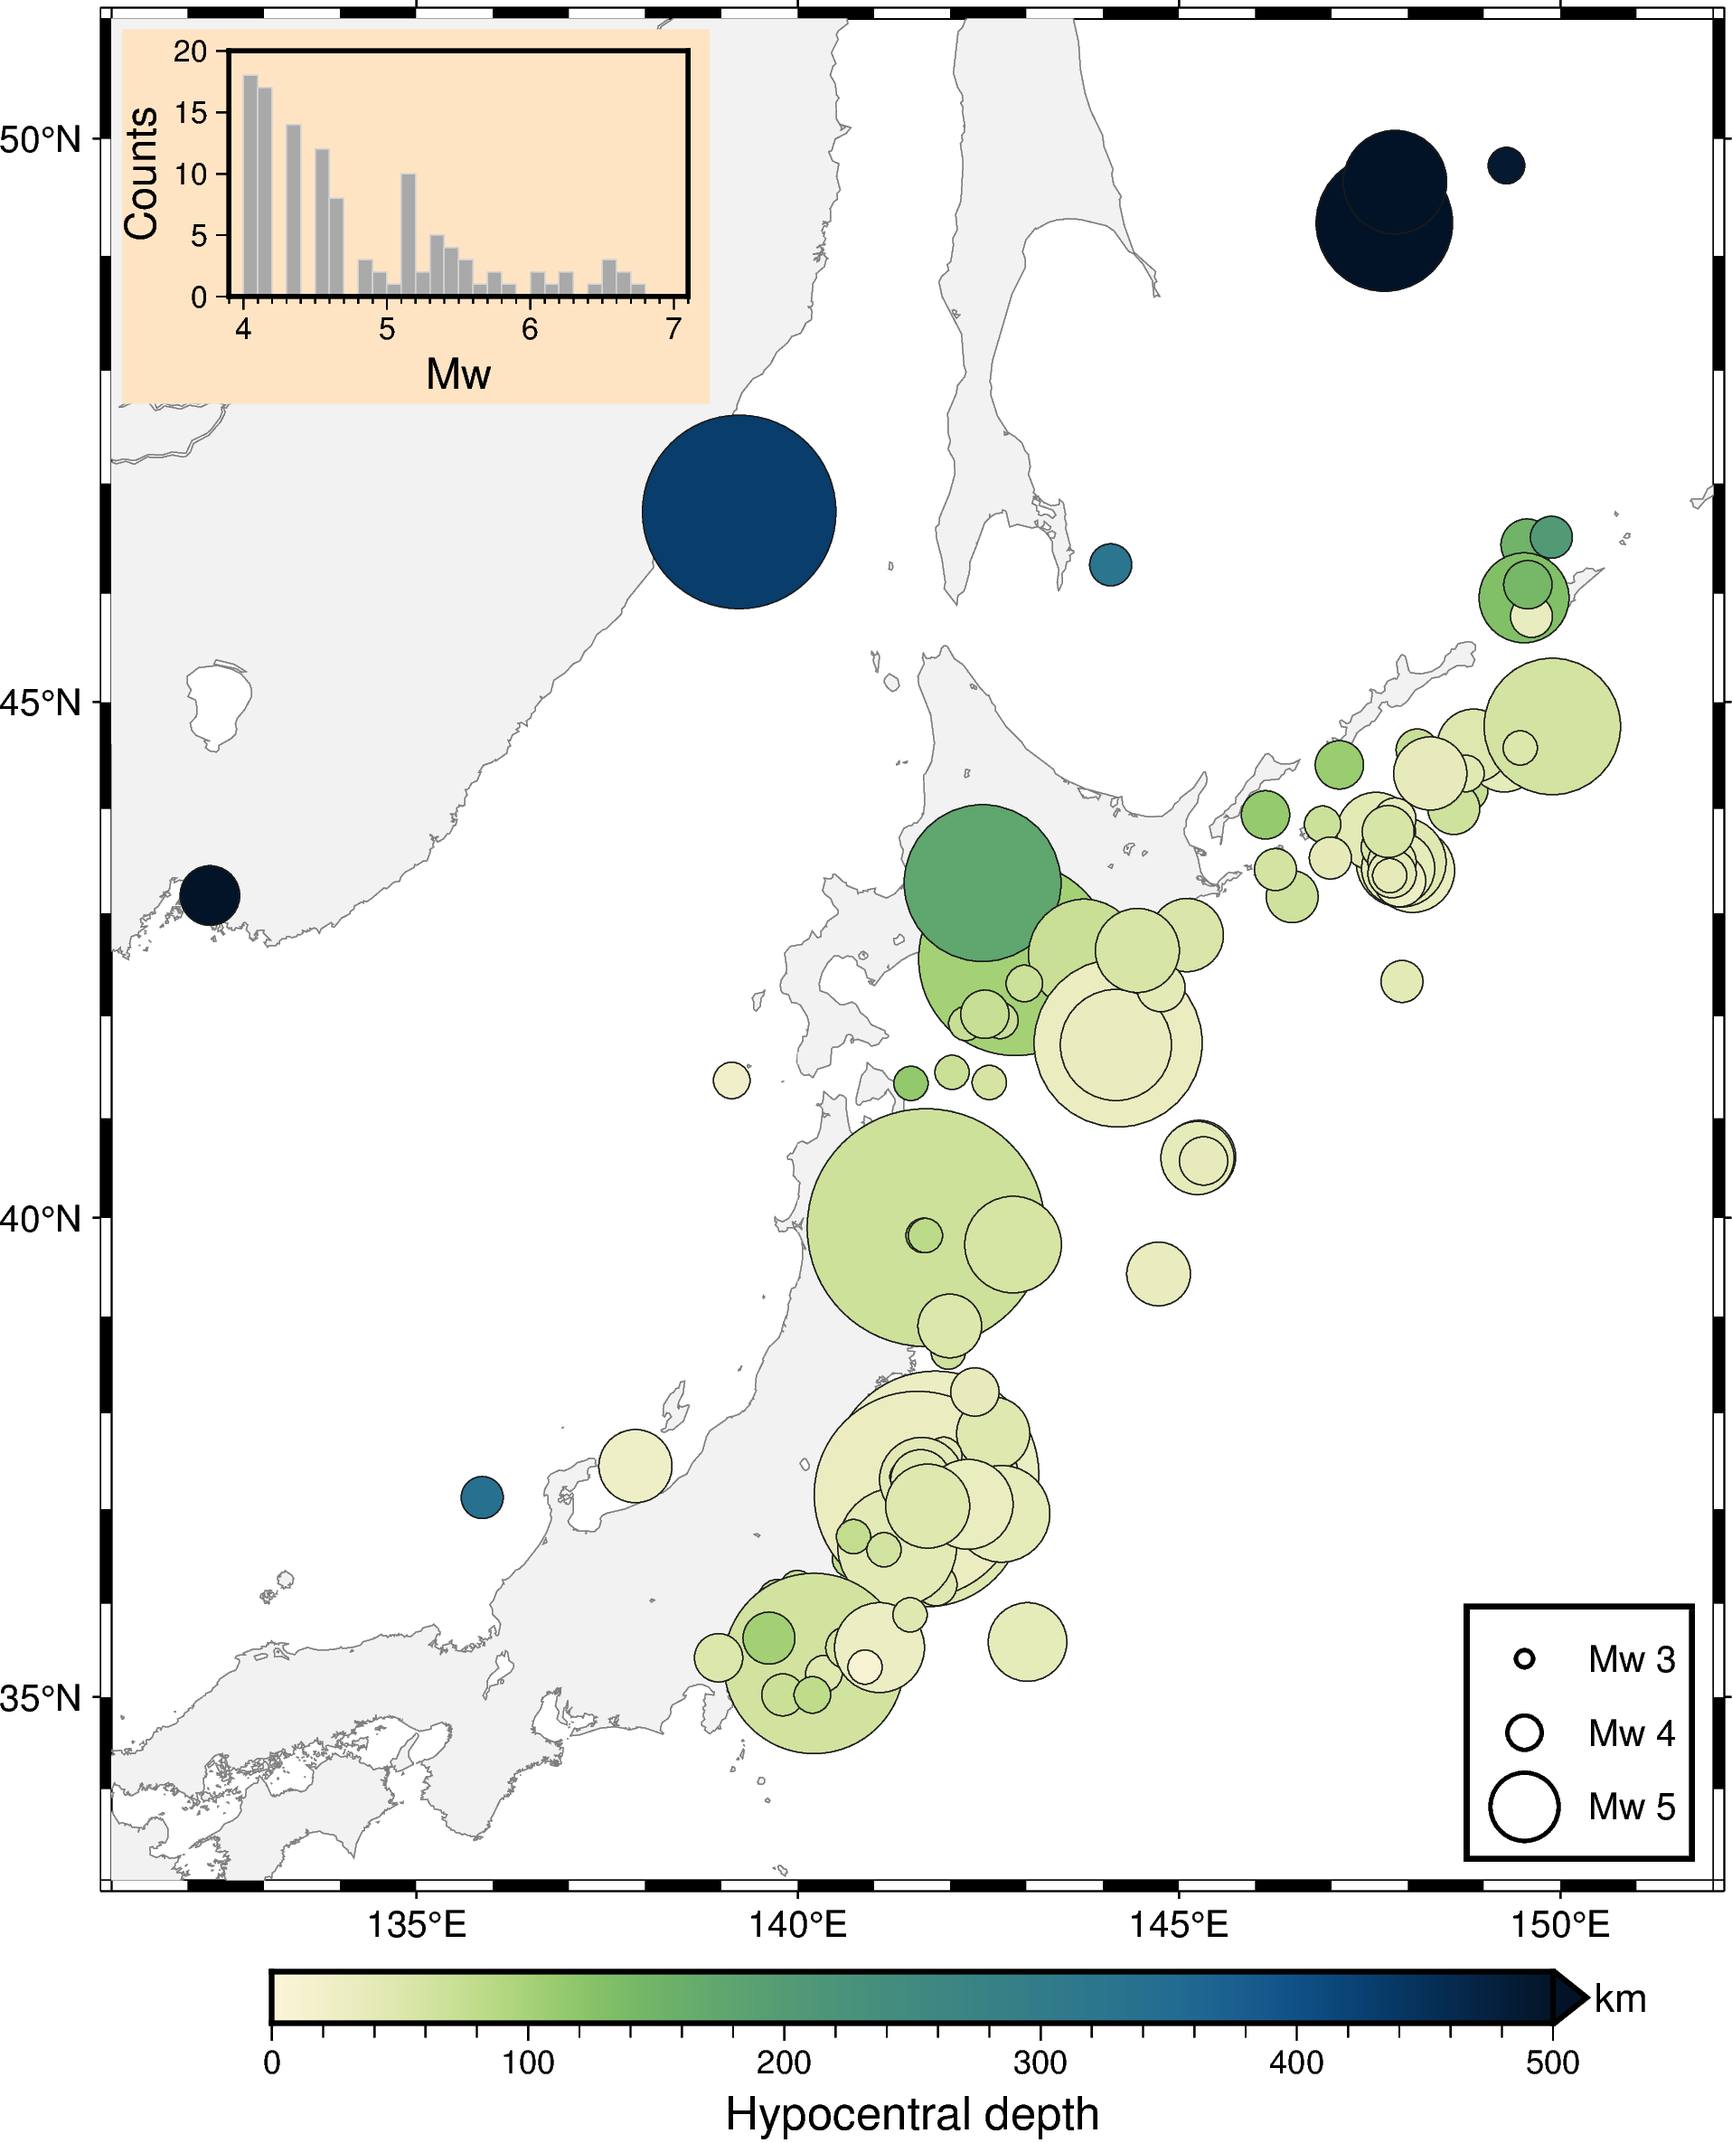
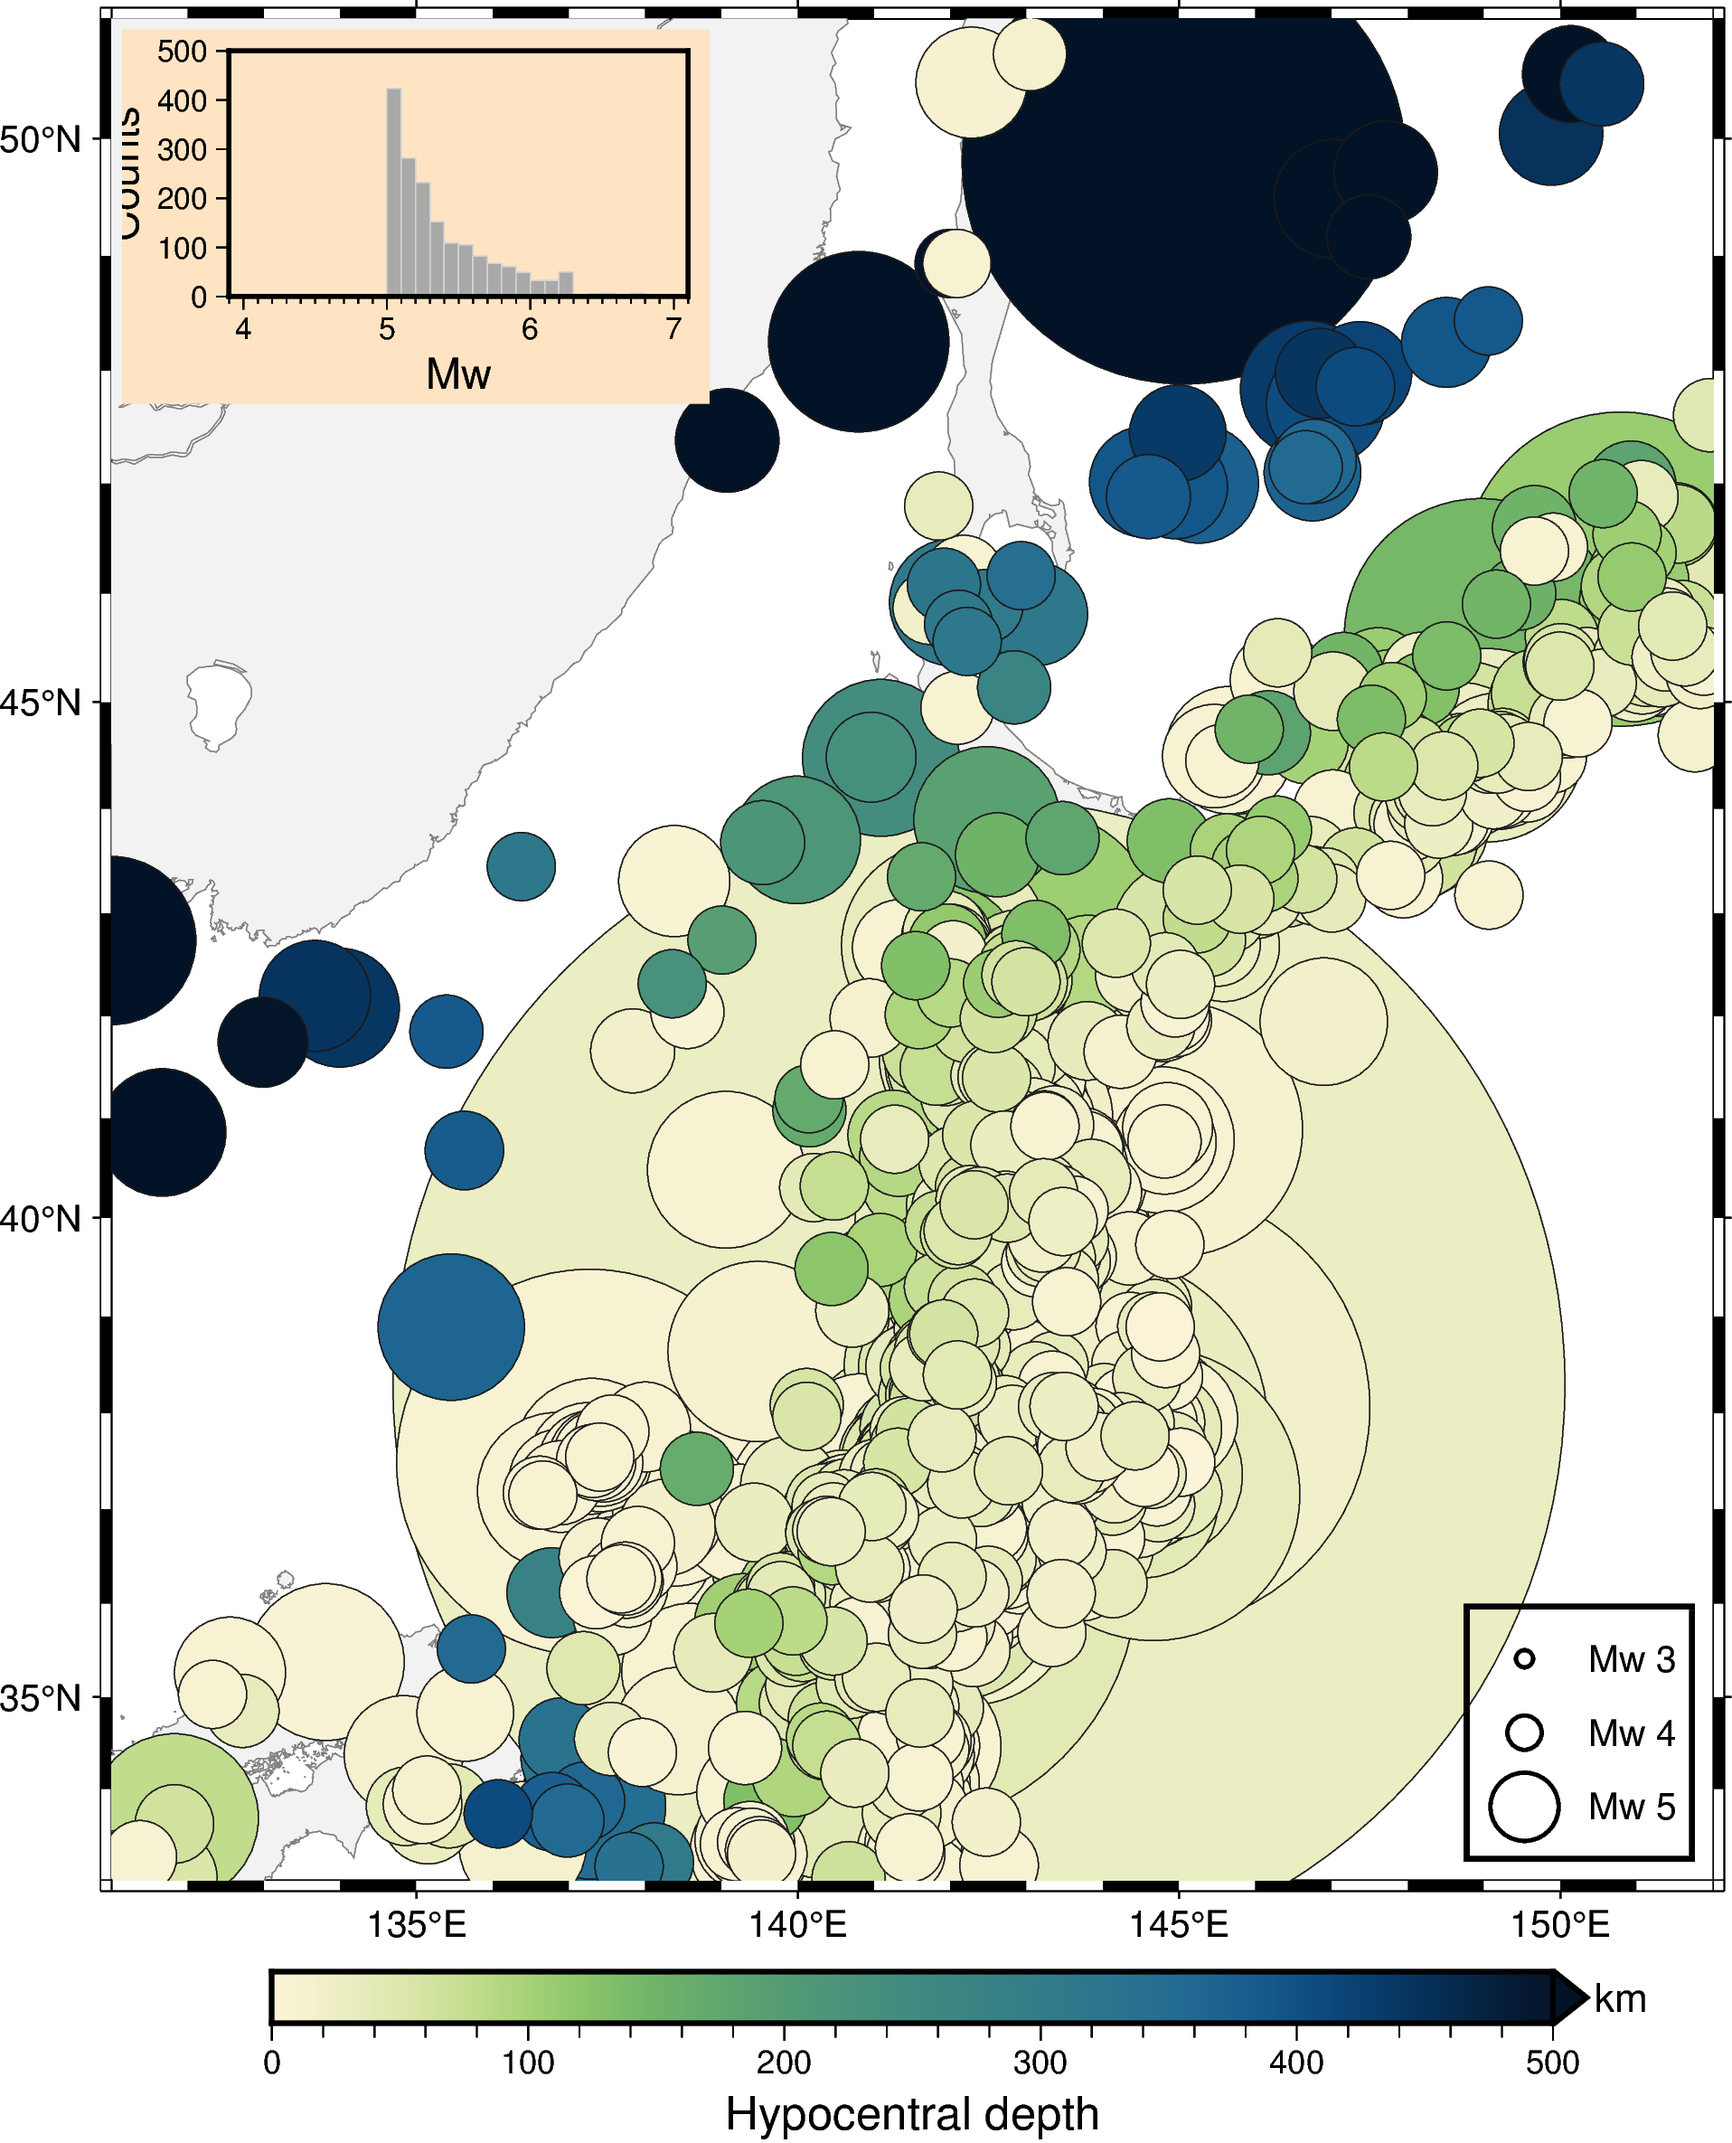
Request real data

diff --git a/Fig4_PyGMt_pandas.py b/Fig4_PyGMt_pandas.py
@@ -2,9 +2,22 @@ import io
 
 import pygmt
 import pandas as pd
+import requests
 
-# TODO request data
-df_eqs = pygmt.datasets.load_sample_data(name="japan_quakes")
+url = "https://earthquake.usgs.gov/fdsnws/event/1/query"
+params = {
+    "format": "csv",
+    "starttime": "2010-01-01",
+    "endtime":   "2024-01-02",
+    "minlatitude": 33,
+    "maxlatitude": 53,
+    "minlongitude": 131,
+    "maxlongitude": 152,
+    "minmagnitude": 5.0,
+}
+r = requests.get(url, params=params)
+df_eqs = pd.read_csv(io.StringIO(r.text))
+df_eqs = df_eqs.sort_values(by=["mag"], ascending=False)
 
 fig = pygmt.Figure()
 
@@ -17,8 +30,8 @@ fig.colorbar(frame=["xa100f20+lHypocentral depth", "y+lkm"], position="+ef0.3c")
 fig.plot(
     x=df_eqs.longitude,
     y=df_eqs.latitude,
-    size=0.02 * 2**df_eqs.magnitude,
-    fill=df_eqs.depth_km,
+    size=0.02 * 2**df_eqs.mag,
+    fill=df_eqs.depth,
     cmap=True,
     style="c",
     pen="gray10",
@@ -39,7 +52,7 @@ with fig.inset(
         region=[3.9, 7.1, 0, 0],
         projection="X?/?",
         frame=["WSrt", "xa1af0.1+lMw", "yaf+lCounts"],
-        data=df_eqs.magnitude,
+        data=df_eqs.mag,
         series=0.1,
         fill="darkgray",
         pen="lightgray",
